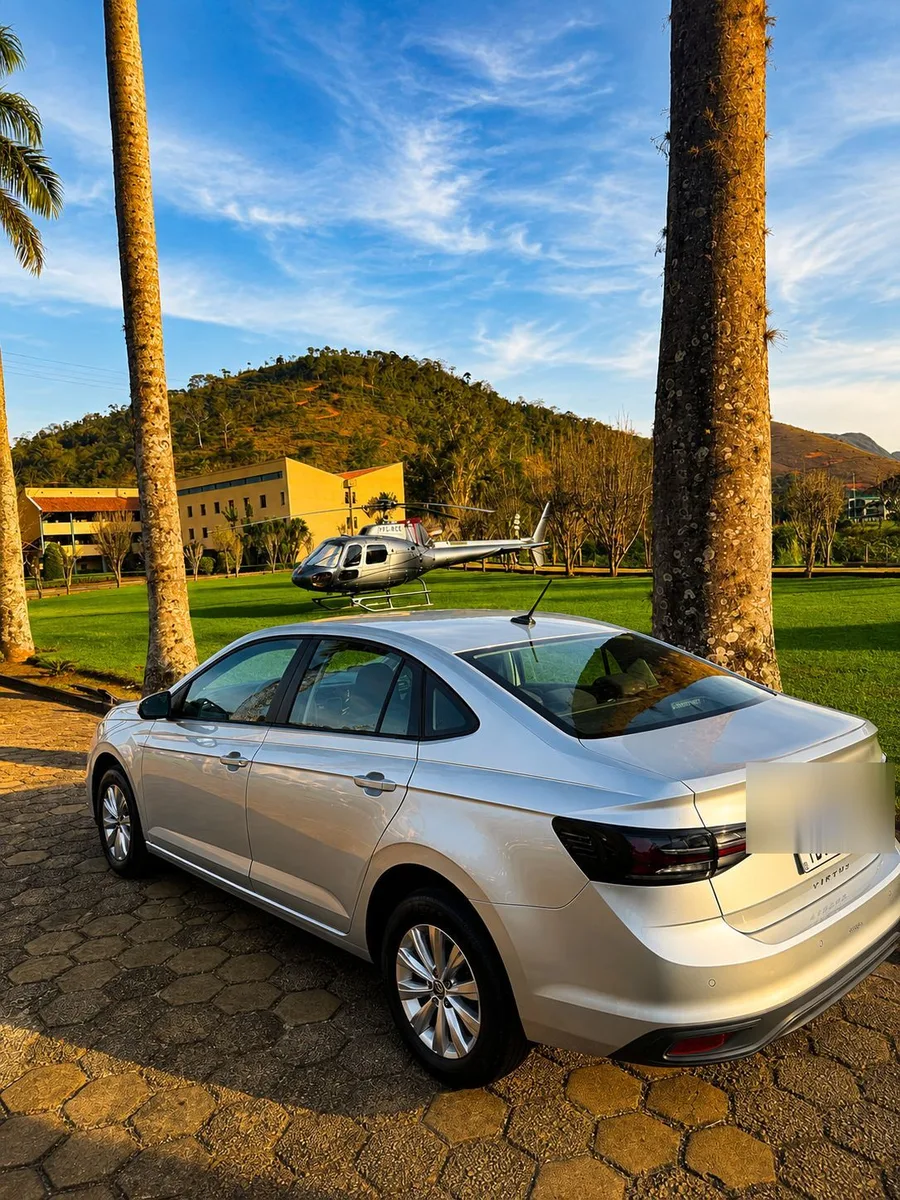
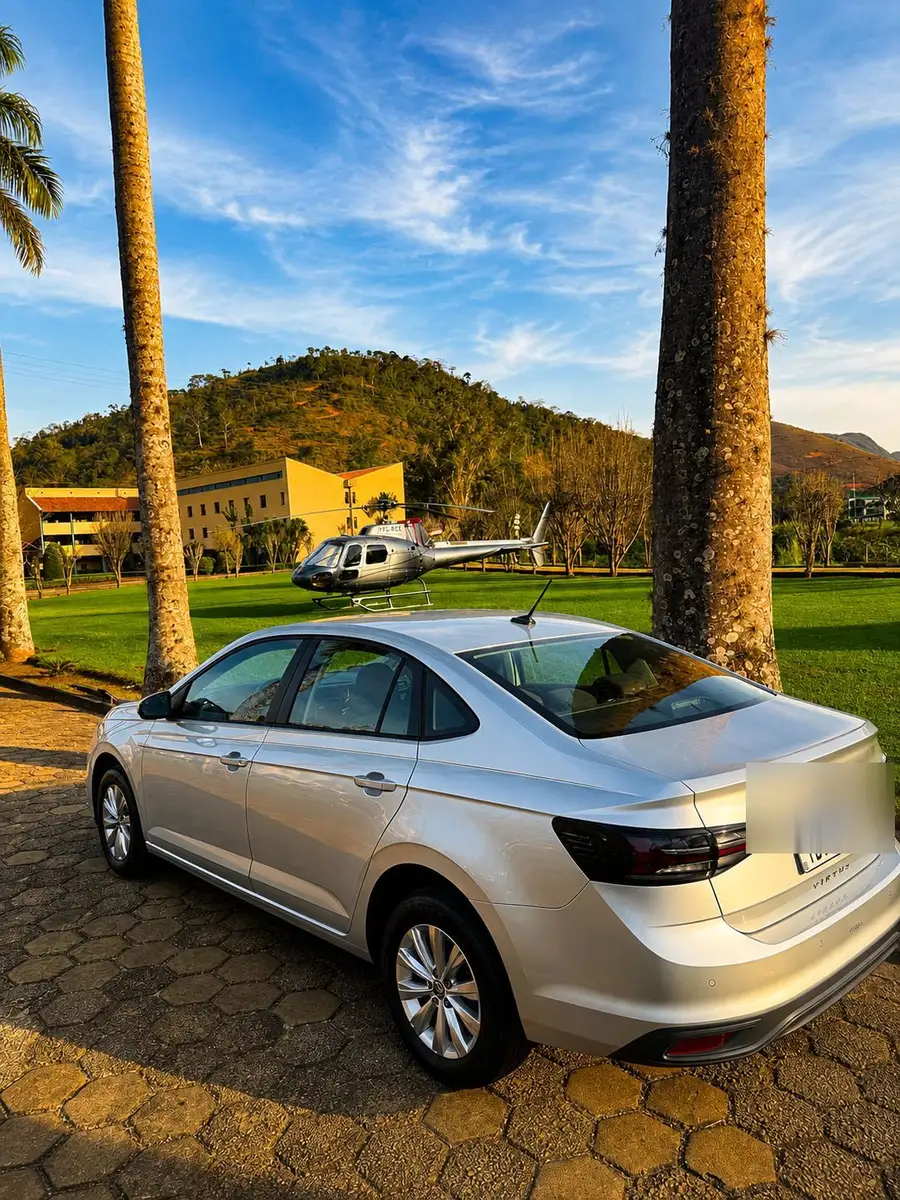
fix(saulo): separa fotos do hotel em blocos proprios e reduz peso
Feedback do cliente: as duas fotos lado a lado carregavam juntas e
travavam a rolagem, alem de estarem mais pesadas que o resto do site.
Cada foto agora ocupa seu proprio bloco (card com copy+foto, depois
uma faixa panoramica so com a segunda foto), seguindo o mesmo padrao
visual dos outros cards de servico. Fotos recomprimidas de ~202KB/248KB
para ~150KB/172KB, em linha com o restante dos assets do site.

diff --git a/index.html b/index.html
@@ -204,11 +204,13 @@
               <p>Atendimento para hotéis e pousadas, com suporte a traslados de hóspedes, aeroportos, eventos e outros deslocamentos sob agendamento.</p>
               <a href="https://wa.me/5524988198400?text=Ol%C3%A1%21%20Gostaria%20de%20informa%C3%A7%C3%B5es%20sobre%20atendimento%20para%20hot%C3%A9is%20e%20pousadas." target="_blank" rel="noopener">Consultar atendimento <span aria-hidden="true">→</span></a>
             </div>
-            <div class="hotel-gallery">
-              <img src="./assets/hoteis-pousadas-heliponto-01.webp" width="1200" height="900" loading="lazy" decoding="async" alt="Veículo da Transfer Executivo Itaipava em hotel com heliponto, ao lado de um helicóptero">
-              <img src="./assets/hoteis-pousadas-heliponto-02.webp" width="900" height="1200" loading="lazy" decoding="async" alt="Veículo da Transfer Executivo Itaipava em área externa de hotel com heliponto e helicóptero ao fundo">
-            </div>
+            <img src="./assets/hoteis-pousadas-heliponto-01.webp" width="1200" height="900" loading="lazy" decoding="async" alt="Veículo da Transfer Executivo Itaipava em hotel com heliponto, ao lado de um helicóptero">
             <p class="service-card-closure">Atendimento também em hotéis e pousadas com estrutura diferenciada, como heliponto.</p>
+          </article>
+
+          <article class="service-card hotel-photo-card" data-reveal>
+            <img src="./assets/hoteis-pousadas-heliponto-02.webp" width="900" height="1200" loading="lazy" decoding="async" alt="Veículo da Transfer Executivo Itaipava em área externa de hotel com heliponto e helicóptero ao fundo">
+            <p class="service-card-closure">Registro real de atendimento em propriedade com heliponto próprio.</p>
           </article>
 
           <article class="service-card" data-reveal>

diff --git a/styles.css b/styles.css
@@ -435,15 +435,7 @@
   min-height:390px;
 }
 
-.hotel-gallery{
-  display:grid;
-  grid-template-columns:1fr 1fr;
-  height:100%;
-  min-height:390px;
-  gap:2px;
-}
-
-.hotel-gallery img{
+.hotel-card img{
   width:100%;
   height:100%;
   min-height:390px;
@@ -457,6 +449,23 @@
   margin-top:32px;
 }
 
+.hotel-photo-card{
+  grid-column:1/-1;
+  padding:0;
+  height:390px;
+  overflow:hidden;
+  border-right:0;
+  border-bottom:0;
+  margin-top:32px;
+}
+
+.hotel-photo-card img{
+  width:100%;
+  height:100%;
+  object-fit:cover;
+  object-position:center 42%;
+}
+
 .portfolio-card:last-child{
   grid-column:1/-1;
 }
@@ -468,13 +477,8 @@
     margin-top:28px;
   }
 
-  .hotel-gallery{
-    min-height:0;
-    height:260px;
-  }
-
-  .hotel-gallery img{
-    height:260px;
+  .hotel-card img{
+    height:340px;
     min-height:0;
     object-position:center 60%;
   }
@@ -486,5 +490,14 @@
 
   .hotel-card a{
     margin-top:25px;
+  }
+
+  .hotel-photo-card{
+    height:340px;
+    margin-top:28px;
+  }
+
+  .hotel-photo-card img{
+    object-position:center 35%;
   }
 }
